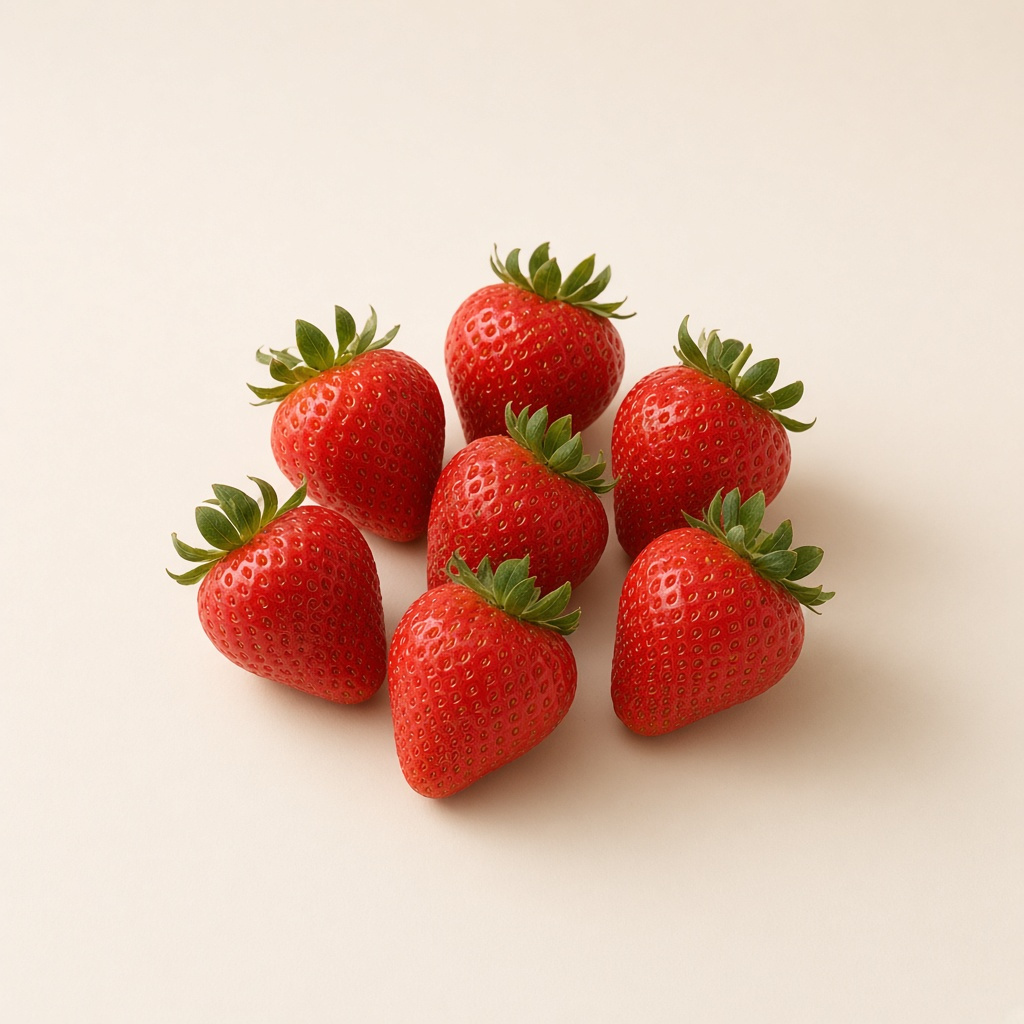
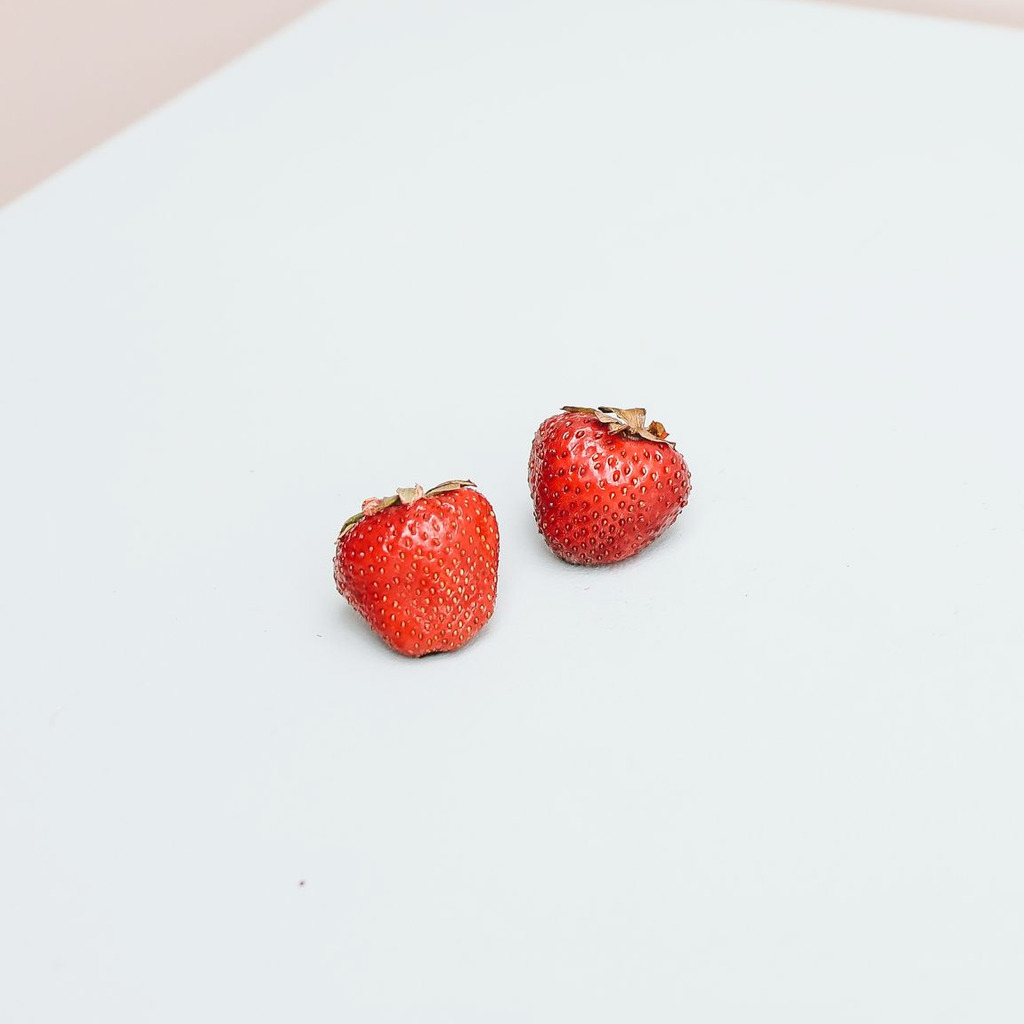
swap the app strawberries photo for the licensed one
The catalog key stays strawberry, so shop cards, farm pages, and sample rows pick up the new picture without a database change.

diff --git a/api/PHOTO-GAPS.md b/api/PHOTO-GAPS.md
@@ -1,3 +1,7 @@
+# Photo credits
+
+- strawberries (`app/assets/photos/strawberry.jpg`, catalog key `strawberry`): Pexels License, Polina Tankilevitch, https://www.pexels.com/photo/4828559/
+
 # Foods that still need a licensed stock photo
 
 These catalog foods use the branded placeholder. Do not pull random images from the web.
